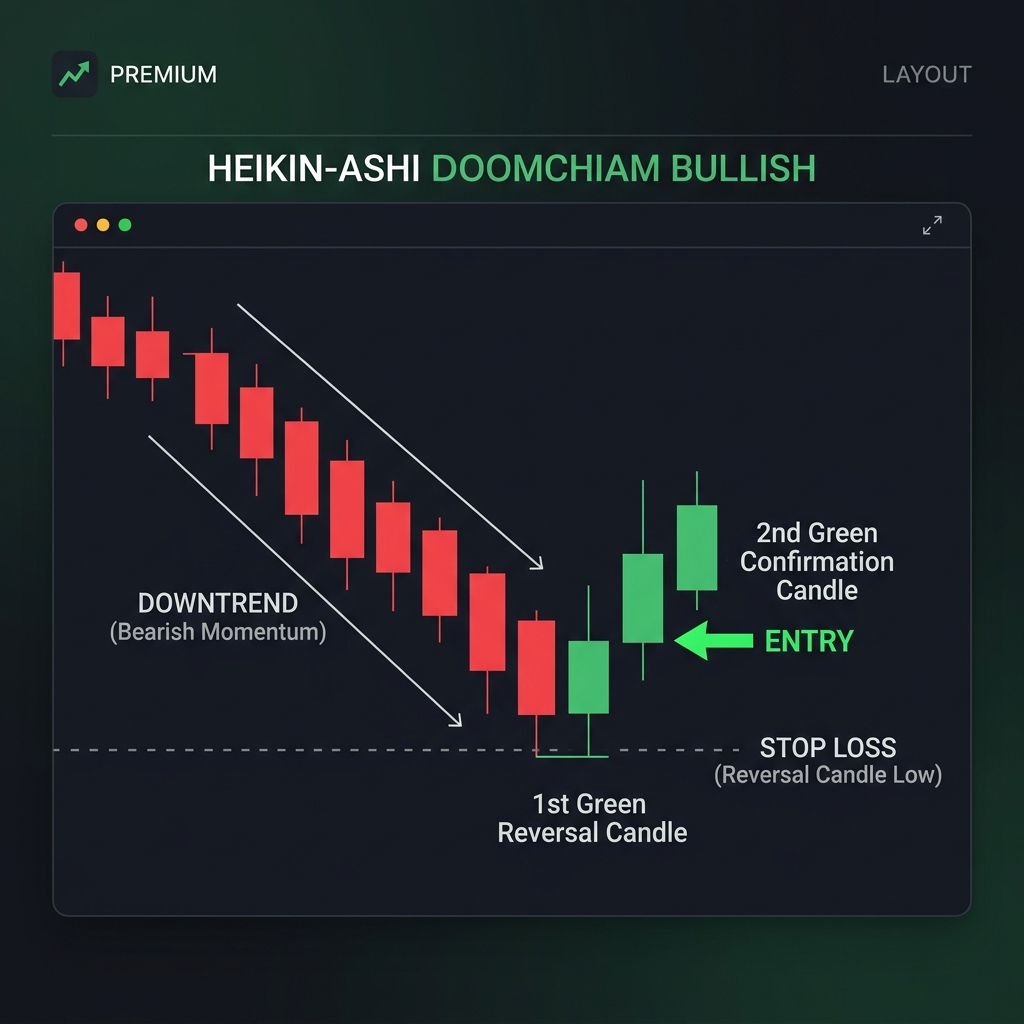
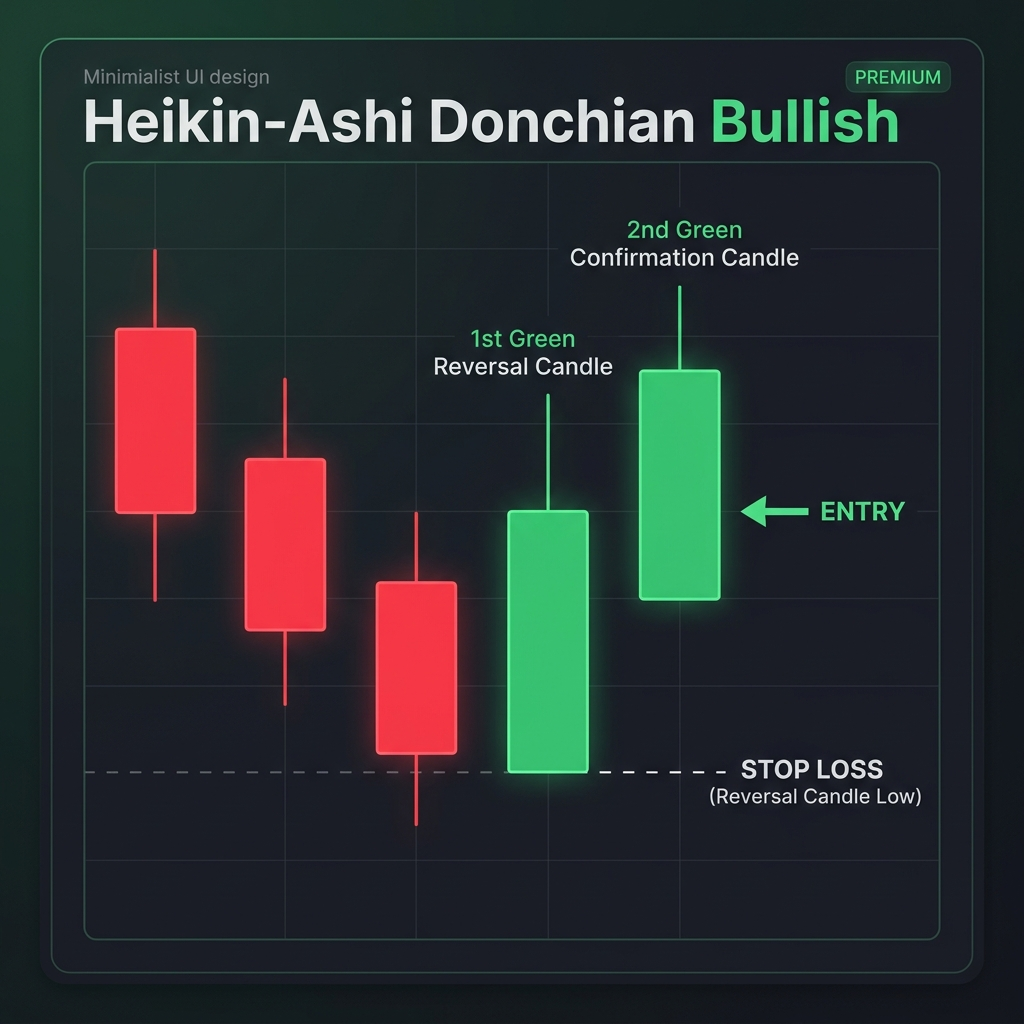
fix: enforce flat bottoms with no lower wicks on bullish strategy diagram green candles

diff --git a/js/ui/app.js b/js/ui/app.js
@@ -181,12 +181,12 @@ const STRATEGY_INFO = {
   ha_donchian_bullish: {
     name: 'HA Donchian Bullish',
     desc: 'A mechanical trend-following strategy by Brijesh Bhatia. It uses smoothed Heikin-Ashi candles to filter market noise and identifies early bullish reversals when the Heikin-Ashi candle color flips green with a flat bottom (no lower shadow) after at least 3 red exhaustion candles. Trades are trailed dynamically using the Donchian Channel.',
-    example: '<img src="/assets/ha_donchian_bullish_diagram.png?v=6" style="width:100%; border-radius:6px; margin-bottom:12px; border:1px solid rgba(255,255,255,0.1);"><strong>Entry:</strong> Buy at the open of the next candle (once the confirmation green HA candle closes).<br><strong>Stop Loss:</strong> Trailing stop at the lower Donchian Channel band (lowest low of last 3 candles for swing, 5 candles for weekly positional, or 2 candles for scalping), OR initially at the low of the 1st green HA reversal candle for a tighter risk option.<br><strong>Target:</strong> Ride the trend until the trailing stop is hit (no fixed target).<br><br><span style="color:var(--text-muted)"><strong>Context:</strong> E.g., RELIANCE drops for 4 days (3+ red HA candles). Today, it prints a green HA candle with no lower shadow (flat bottom). You buy at the open of the next candle and trail the lowest low of the last 3 days.</span>'
+    example: '<img src="/assets/ha_donchian_bullish_diagram.png?v=7" style="width:100%; border-radius:6px; margin-bottom:12px; border:1px solid rgba(255,255,255,0.1);"><strong>Entry:</strong> Buy at the open of the next candle (once the confirmation green HA candle closes).<br><strong>Stop Loss:</strong> Trailing stop at the lower Donchian Channel band (lowest low of last 3 candles for swing, 5 candles for weekly positional, or 2 candles for scalping), OR initially at the low of the 1st green HA reversal candle for a tighter risk option.<br><strong>Target:</strong> Ride the trend until the trailing stop is hit (no fixed target).<br><br><span style="color:var(--text-muted)"><strong>Context:</strong> E.g., RELIANCE drops for 4 days (3+ red HA candles). Today, it prints a green HA candle with no lower shadow (flat bottom). You buy at the open of the next candle and trail the lowest low of the last 3 days.</span>'
   },
   ha_donchian_bearish: {
     name: 'HA Donchian Bearish',
     desc: 'A mechanical trend-following strategy by Brijesh Bhatia. Identifies early bearish reversals when the Heikin-Ashi candle flips red with a flat top (no upper shadow) after at least 3 green exhaustion candles. Trades are trailed dynamically using the Donchian Channel.',
-    example: '<img src="/assets/ha_donchian_bearish_diagram.png?v=6" style="width:100%; border-radius:6px; margin-bottom:12px; border:1px solid rgba(255,255,255,0.1);"><strong>Entry:</strong> Short/Sell at the open of the next candle (once the confirmation red HA candle closes).<br><strong>Stop Loss:</strong> Trailing stop at the upper Donchian Channel band (highest high of last 3 candles for swing, 5 candles for weekly positional, or 2 candles for scalping), OR initially at the high of the 1st red HA reversal candle for a tighter risk option.<br><strong>Target:</strong> Ride the trend until the trailing stop is hit.<br><br><span style="color:var(--text-muted)"><strong>Context:</strong> E.g., SBIN rallies for 5 days (3+ green HA candles). Today, it prints a red HA candle with no upper shadow (flat top). You short at the open of the next candle and trail the highest high of the last 3 days.</span>'
+    example: '<img src="/assets/ha_donchian_bearish_diagram.png?v=7" style="width:100%; border-radius:6px; margin-bottom:12px; border:1px solid rgba(255,255,255,0.1);"><strong>Entry:</strong> Short/Sell at the open of the next candle (once the confirmation red HA candle closes).<br><strong>Stop Loss:</strong> Trailing stop at the upper Donchian Channel band (highest high of last 3 candles for swing, 5 candles for weekly positional, or 2 candles for scalping), OR initially at the high of the 1st red HA reversal candle for a tighter risk option.<br><strong>Target:</strong> Ride the trend until the trailing stop is hit.<br><br><span style="color:var(--text-muted)"><strong>Context:</strong> E.g., SBIN rallies for 5 days (3+ green HA candles). Today, it prints a red HA candle with no upper shadow (flat top). You short at the open of the next candle and trail the highest high of the last 3 days.</span>'
   }
 };
 

diff --git a/index.html b/index.html
@@ -271,6 +271,6 @@
   </script>
 
   <!-- Entry point for UI routing and execution -->
-  <script type="module" src="js/ui/app.js?v=54" defer></script>
+  <script type="module" src="js/ui/app.js?v=55" defer></script>
 </body>
 </html>
